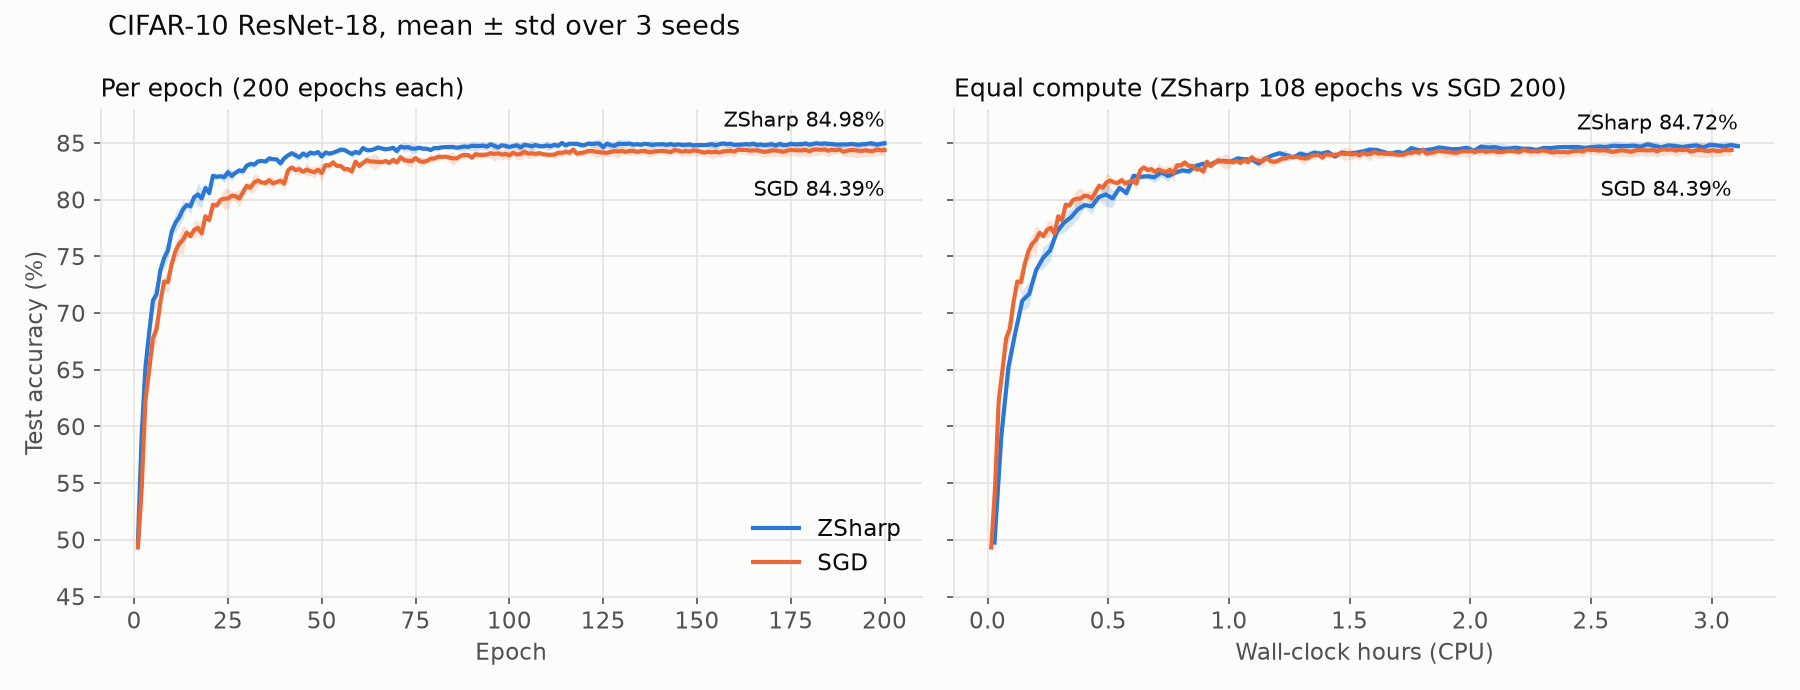
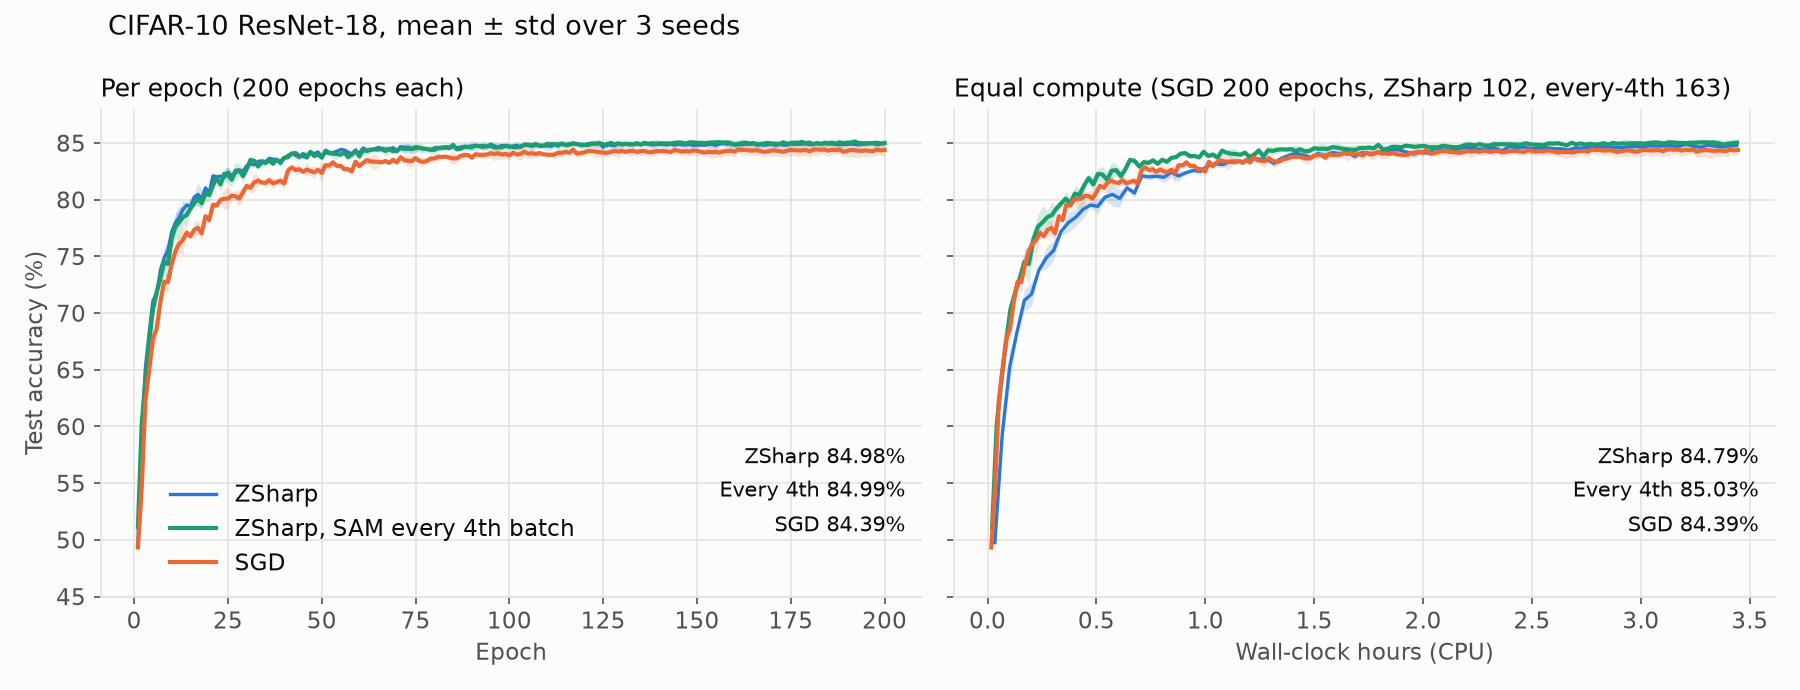
Fix equal-compute numbers; add k=4 to figure

diff --git a/README.md b/README.md
@@ -7,7 +7,7 @@
 **Sharpness-Aware Minimization with Z-Score Gradient Filtering: beats SGD per epoch (+2.65% at 20 epochs, +0.59% at 200 on CIFAR-10), but each epoch costs ~1.9x. Taking the SAM step every 4th batch cuts that to ~1.1–1.3x and keeps most of the gain, so it matches or beats SGD at equal compute on CIFAR-10 and CIFAR-100. Fully reproducible.**
 
 <p align="center">
-  <img src="docs/training_curves.png" alt="Test accuracy of ZSharp and SGD per epoch and per wall-clock hour" width="600">
+  <img src="docs/training_curves.png" alt="Test accuracy of ZSharp, ZSharp with SAM every 4th batch, and SGD per epoch and per wall-clock hour" width="600">
 </p>
 
 ## Quickstart
@@ -57,10 +57,10 @@ hyperparameters, `dataset: cifar100`).*
 > **Note**: the gap shrinks with training — ZSharp reaches its plateau
 > sooner, but both end within about a point. Each ZSharp step costs two
 > forward/backward passes plus the Z-score filtering; one ZSharp epoch takes
-> ~1.9x as long as an SGD epoch (127 s vs 68 s on 4 CPU threads). Given the
-> same compute as 200 SGD epochs, 108 ZSharp epochs reach 84.72 ± 0.23% vs
+> ~2x as long as an SGD epoch (121 s vs 62 s on 4 CPU threads). Given the
+> same compute as 200 SGD epochs, 102 ZSharp epochs reach 84.79 ± 0.36% vs
 > SGD's 84.39 ± 0.48% (last-10-epoch means 84.74% vs 84.35%; ZSharp ahead on
-> every seed). SGD leads for roughly the first 40% of that budget; see the
+> every seed). SGD leads for roughly the first 30% of that budget; see the
 > right panel of the figure above. With strong regularization the
 > equal-compute result is 86.04 ± 0.40% vs 85.62 ± 0.34%. A 200-epoch ZSharp
 > run takes ~5.7 h at the current per-epoch cost. On CIFAR-100 the
